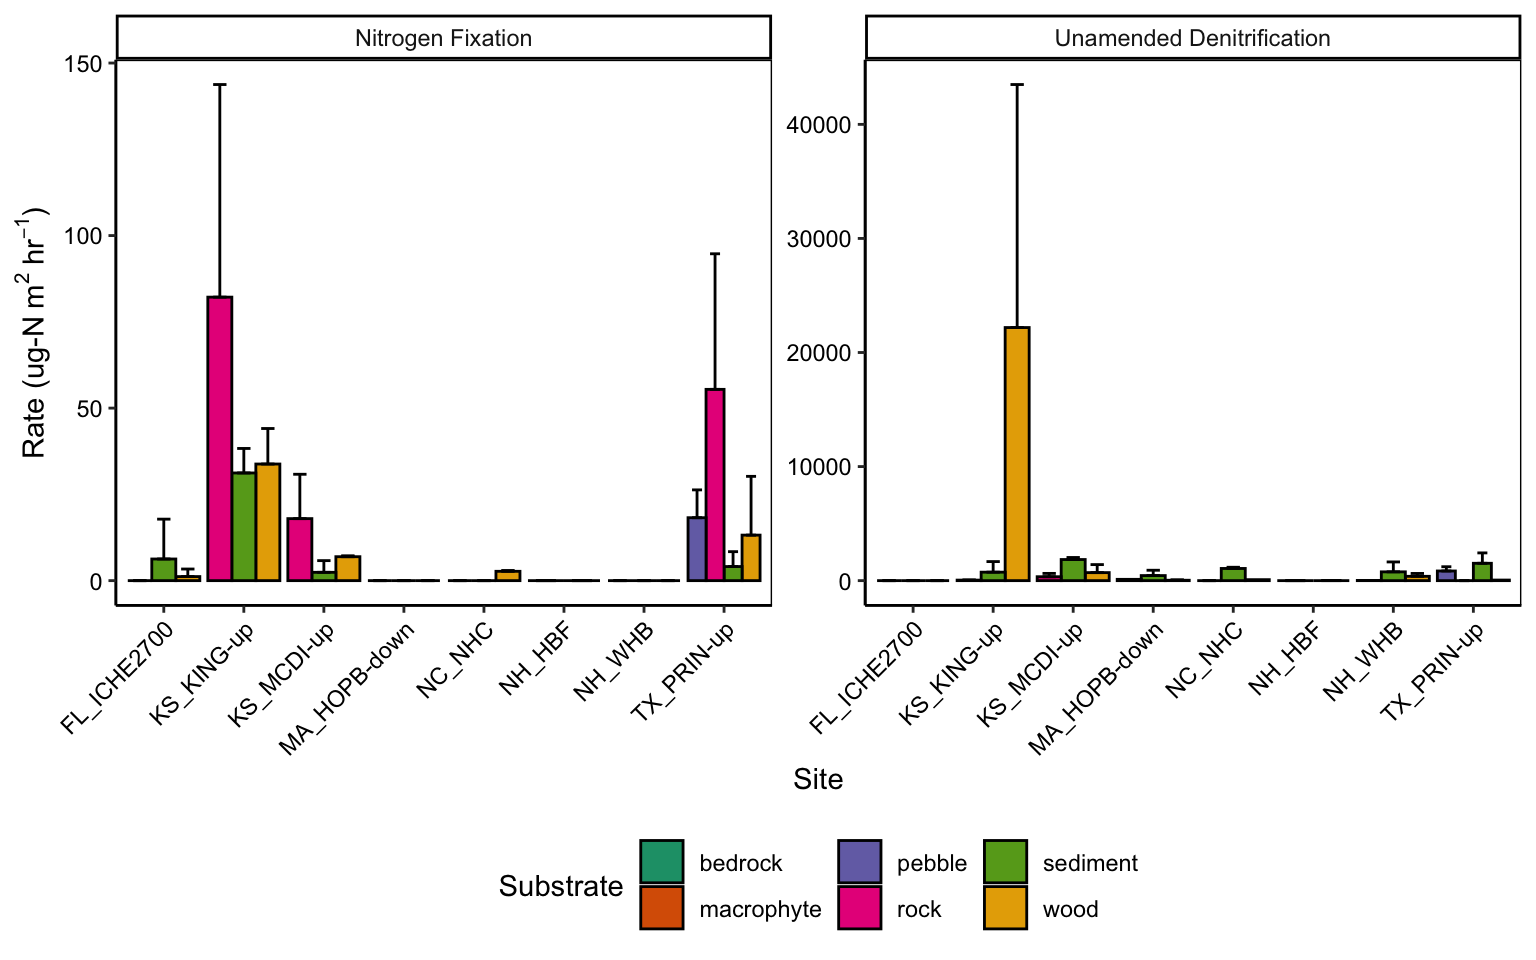
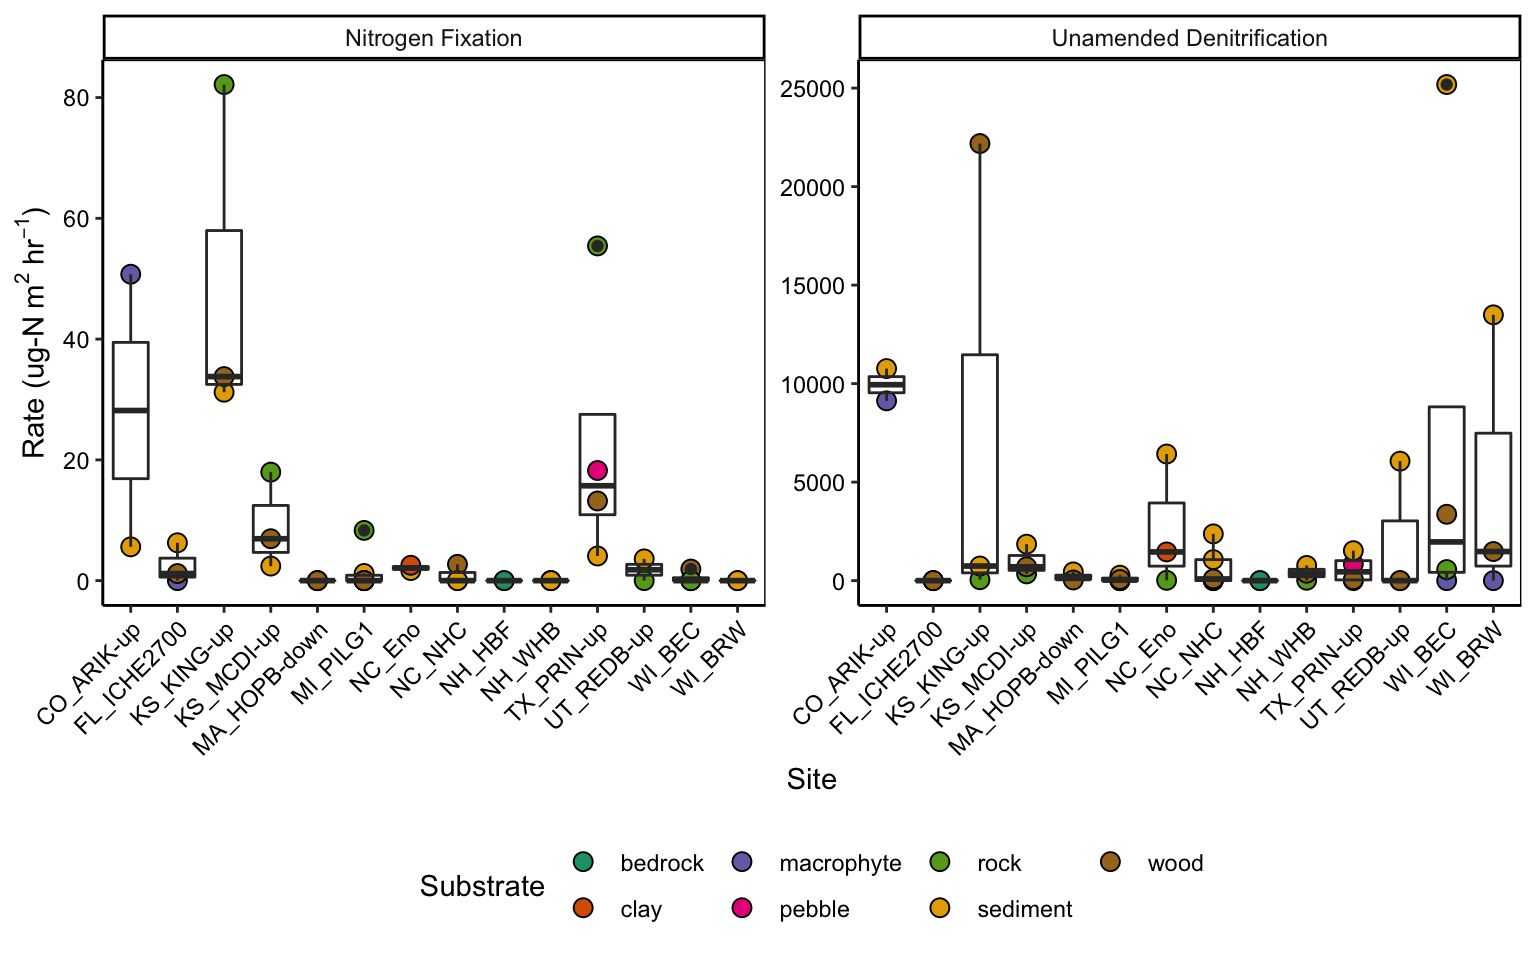
Add more options for rate plots

diff --git a/docs/CAREER_DefiningNutrientRegimes.html b/docs/CAREER_DefiningNutrientRegimes.html
@@ -1401,20 +1401,29 @@ Figure 3: Time series data of daily NEP (grey lines) and calculated mean NEP for
 </div>
 </div>
 <div class="layout-chunk" data-layout="l-body">
-<div class="figure"><span id="fig:plotNProcessRates"></span>
+<div class="figure"><span id="fig:plotNProcessRates1"></span>
 <img src="CAREER_DefiningNutrientRegimes_files/figure-html5/plotNProcessRates-1.png" alt="Nitrogen fixation and denitrification rates measured on the dominant substrate at each study site." width="768" />
 <p class="caption">
 Figure 4: Nitrogen fixation and denitrification rates measured on the dominant substrate at each study site.
 </p>
 </div>
-</div>
-<div class="layout-chunk" data-layout="l-body">
-<div class="figure">
-<img src="CAREER_DefiningNutrientRegimes_files/figure-html5/NEP_ProcessRate-1.png" alt="Nitrogen fixation and denitrification rates and net ecosystem production (NEP) on day of sampling at each study site." width="768" />
+<div class="figure"><span id="fig:plotNProcessRates2"></span>
+<img src="CAREER_DefiningNutrientRegimes_files/figure-html5/plotNProcessRates-2.png" alt="Nitrogen fixation and denitrification rates measured on the dominant substrate at each study site." width="768" />
 <p class="caption">
-(#fig:NEP_ProcessRate)Nitrogen fixation and denitrification rates and net ecosystem production (NEP) on day of sampling at each study site.
+Figure 5: Nitrogen fixation and denitrification rates measured on the dominant substrate at each study site.
 </p>
 </div>
+</div>
+<div class="layout-chunk" data-layout="l-body">
+<div class="figure"><span id="fig:correlations"></span>
+<img src="CAREER_DefiningNutrientRegimes_files/figure-html5/correlations-1.png" alt="Correlations between predictor variables, computed using Pearson correlation" width="480" />
+<p class="caption">
+Figure 6: Correlations between predictor variables, computed using Pearson correlation
+</p>
+</div>
+</div>
+<div class="layout-chunk" data-layout="l-body">
+
 </div>
 <div class="layout-chunk" data-layout="l-body">
 
